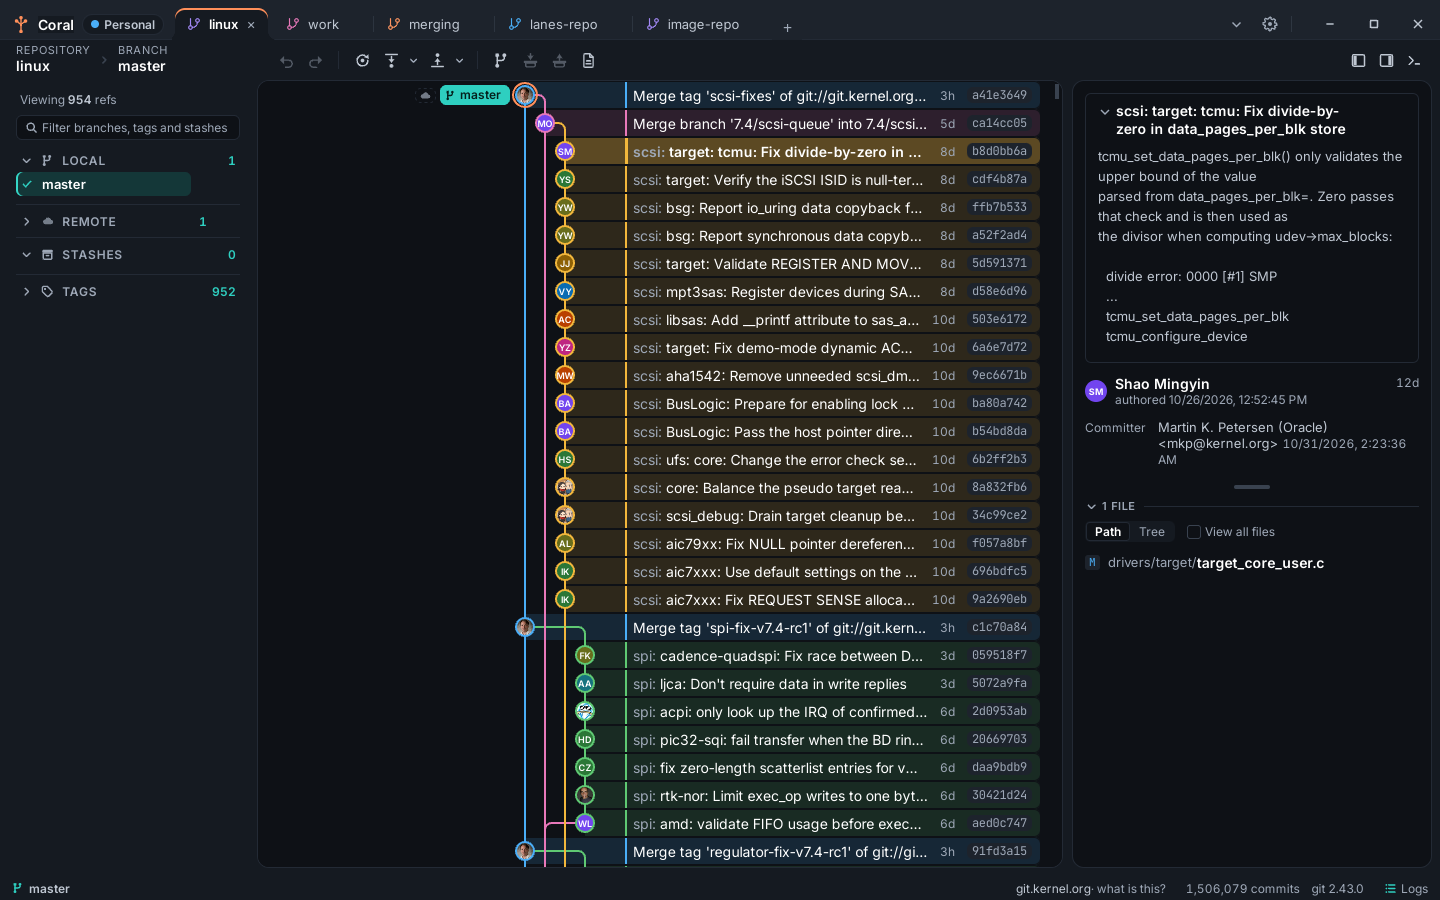
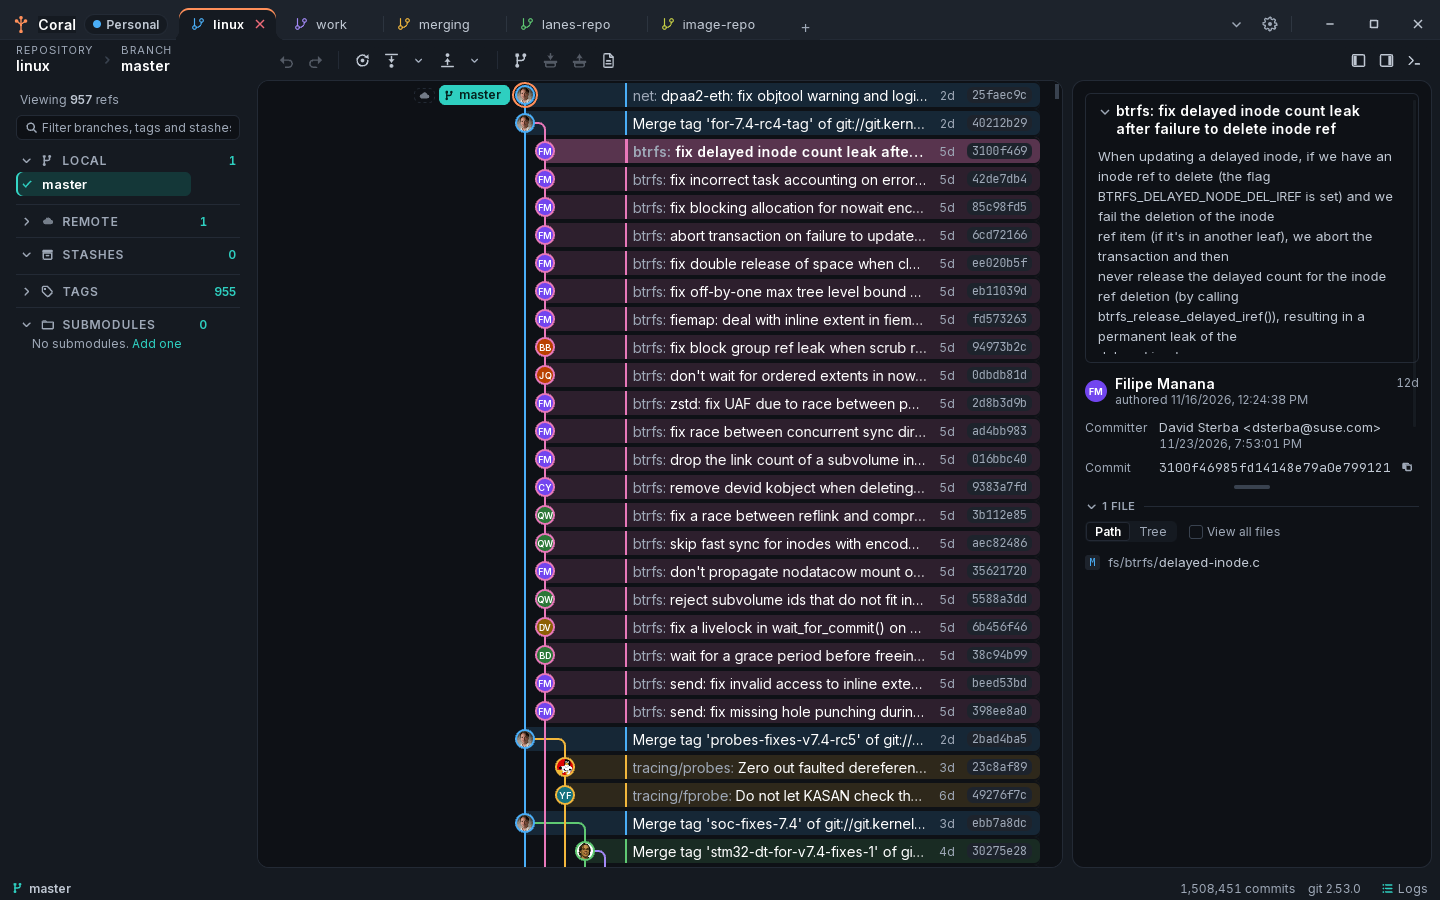
docs: every screenshot retaken with branches turning into the commits they left from
All fifteen show this branch's window: a branch's line runs down its own lane and turns
into the commit it left from on that commit's row, the stash beside main turns in from the
right, and a bisect's straight history stays one lane. They also catch up with 1.6.1's File
tab and 1.8.0's red close controls, which the last set predates. Taken from the release
binary under WebKitGTK at 1440 by 900: the graph, palette, dark theme and terminal on a copy
of the kernel, now 1,508,451 commits and 955 tags, which the README says; the checkout on
the hosting test's fake GitHub; the rest on the window tour's fixtures and three small
repositories made for a bisect, an image change and lost work. The terminal's prompt is a
plain one now, rather than the machine's.

Claude-Session: https://claude.ai/code/session_019zKzfYHYo9Sy8VyUpvuzwK

diff --git a/README.md b/README.md
@@ -18,8 +18,8 @@ run against a real clone.
 
 ## What it looks like
 
-The graph, the palette, the terminal and the dark theme below are the Linux kernel: 1,506,079
-commits and 952 tags. The rest are a small repository, because a diff, a conflict and a rebase
+The graph, the palette, the terminal and the dark theme below are the Linux kernel: 1,508,451
+commits and 955 tags. The rest are a small repository, because a diff, a conflict and a rebase
 are easier to read when the file in them is ten lines rather than ten thousand.
 
 ![The graph on the Linux kernel](docs/screenshots/01-graph.png)
